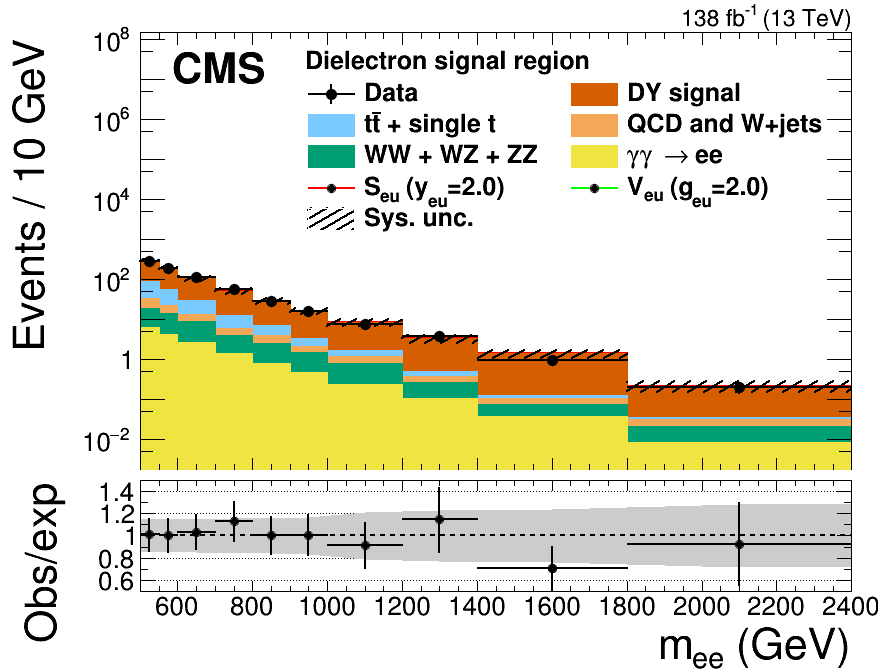
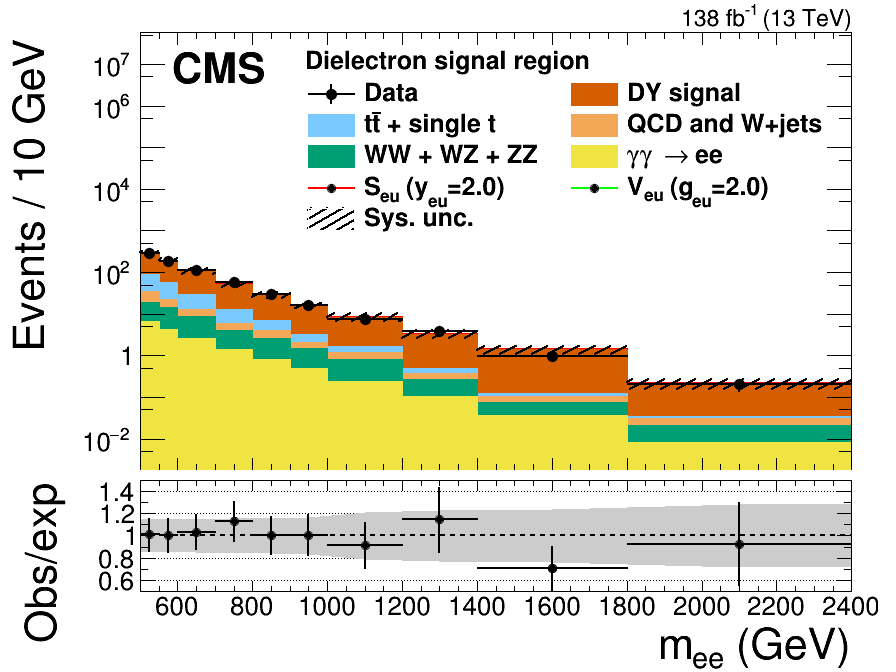
paper data v mc plot

diff --git a/plots/ElEl/draw_cmp_from_saved.C b/plots/ElEl/draw_cmp_from_saved.C
@@ -418,7 +418,7 @@ void draw_cmp_from_saved(){
 
 
     int year = -1;
-    float hmax = 500000;
+    float hmax = 200000;
     if(year == 2016)
         hmax *= 0.625;
     if(year == 2017)
@@ -474,7 +474,7 @@ void draw_cmp_from_saved(){
     int n_rap_bins = 20;
     float rap_bin_size = 5. / n_rap_bins;
 
-    hmax = 60000;
+    hmax = 20000;
 
     if(year == 2016)
         hmax *= 0.625;
